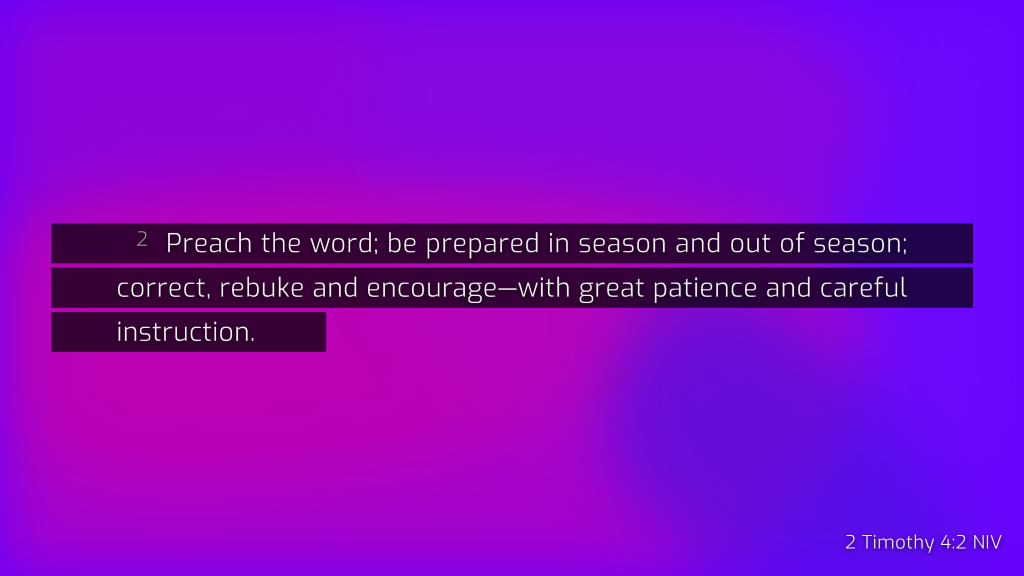
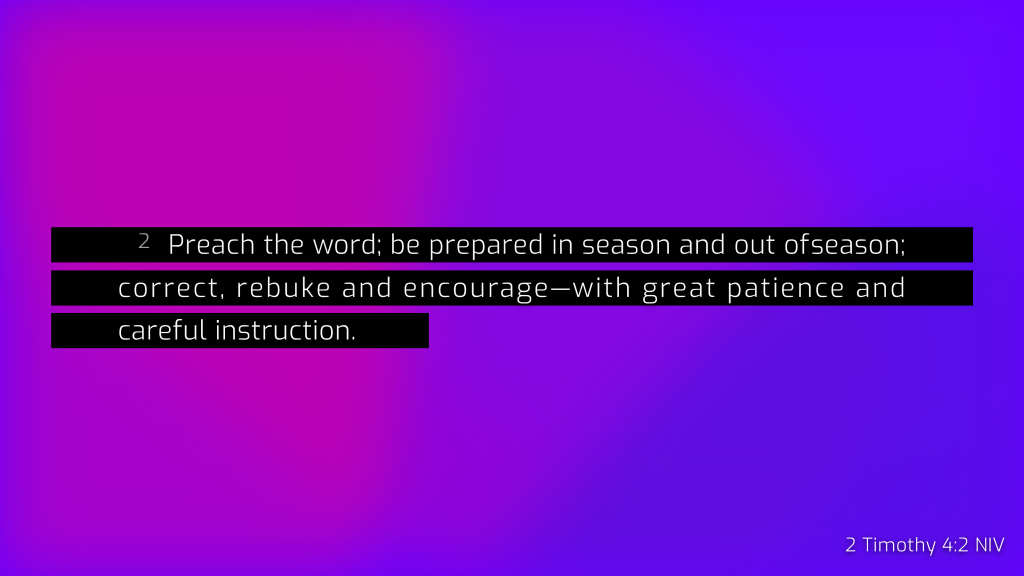
Animated blobs fixed!

diff --git a/backgrounds/animated-blobs.css b/backgrounds/animated-blobs.css
@@ -49,6 +49,7 @@ gradient-color {
   animation-timing-function: ease-in-out;
   animation-iteration-count: infinite;
   animation-direction: alternate;
+  animation-delay: -30s;
 }
 
 @keyframes animate1 {
@@ -98,27 +99,30 @@ gradient-color:nth-child(1) {
   background-color: var(--color-1);
   animation-direction: backwards;
   animation-name: animate2;
-  animation-duration: 43s;
-  animation-offset: 30s;
+  animation-duration: 33s;
+  animation-delay: -15s;
 }
 
 gradient-color:nth-child(2) {
   background-color: var(--color-2);
   animation-name: animate2;
-  animation-duration: 35s;
+  animation-duration: 22s;
+  animation-delay: -7s;
 }
 
 gradient-color:nth-child(3) {
   background-color: var(--color-3);
   animation-direction: backwards;
   animation-name: animate1;
-  animation-duration: 26s;
+  animation-duration: 20s;
+  animation-delay: -18s;
 }
 
 gradient-color:nth-child(4) {
   background-color: var(--color-4);
   animation-name: animate4;
-  animation-duration: 30s;
+  animation-duration: 25s;
+  animation-delay: -45s;
 }
 
 gradient-backdrop {
@@ -133,17 +137,9 @@ gradient-backdrop {
 /* end background */
 
 /*  Decorative background stripes for text */
-#verses {
-	/* transform: scale(0.8); */
-}
-
 #verse {
 	padding: 0 2.5em;
-	/* transform: rotate(-0.0000000001deg);
-    -webkit-transform: rotate(-0.0000000001deg); */
 	line-height: 1.6em;
-	/* box-shadow: 2.5em 0px 0px 1px black, -2.5em 0 0 1px black, -2px 0 0 2px black inset, 2px 0 0 2px black inset; */
-
 }
 
 #verse > div {
@@ -155,27 +151,13 @@ gradient-backdrop {
     box-shadow: 2.5em 0px 0px 0px black, -2.5em 0 0 0px black, -2px 0 0 2px black inset, 2px 0 0 2px black inset;
 	padding-right: 1px;
 	
-	
-	/* background: rgba(0, 0, 0, 0.70);
-	    background: black;
-    box-shadow: 2.5em 0px 0px 1px rgba(0, 0, 0, 0.70), -2.5em 0 0 1px rgba(0, 0, 0, 0.70), -1px 0 0 1px rgba(0, 0, 0, 0.70) inset, 1px 0 0 1px rgba(0, 0, 0, 0.70) inset; */
-	/* box-shadow: 2.5em 0 0 0px rgba(0, 0, 0, 0.70), -2.5em 0 0 0px rgba(0, 0, 0, 0.70), -0.3px 0 0 0 rgba(0, 0, 0, 0.70) inset, 0.3px 0 0 0 rgba(0, 0, 0, 0.70) inset; */
-	
     -webkit-box-decoration-break: clone;
 	box-decoration-break: clone;
 }
 
-#verse, #announcement, #source {
-	font-size: 0.75em;
+#verses {
+	font-size: 2.6em;
 }
-/*
-#verse > div {
-  box-decoration-break: clone;
-  -webkit-box-decoration-break: clone;
-  background-color: rgba(0, 0, 0, 0.70);
-  line-height: 1.7;
-}
-*/
 
 #verse .label {
   top: -0.28em;
